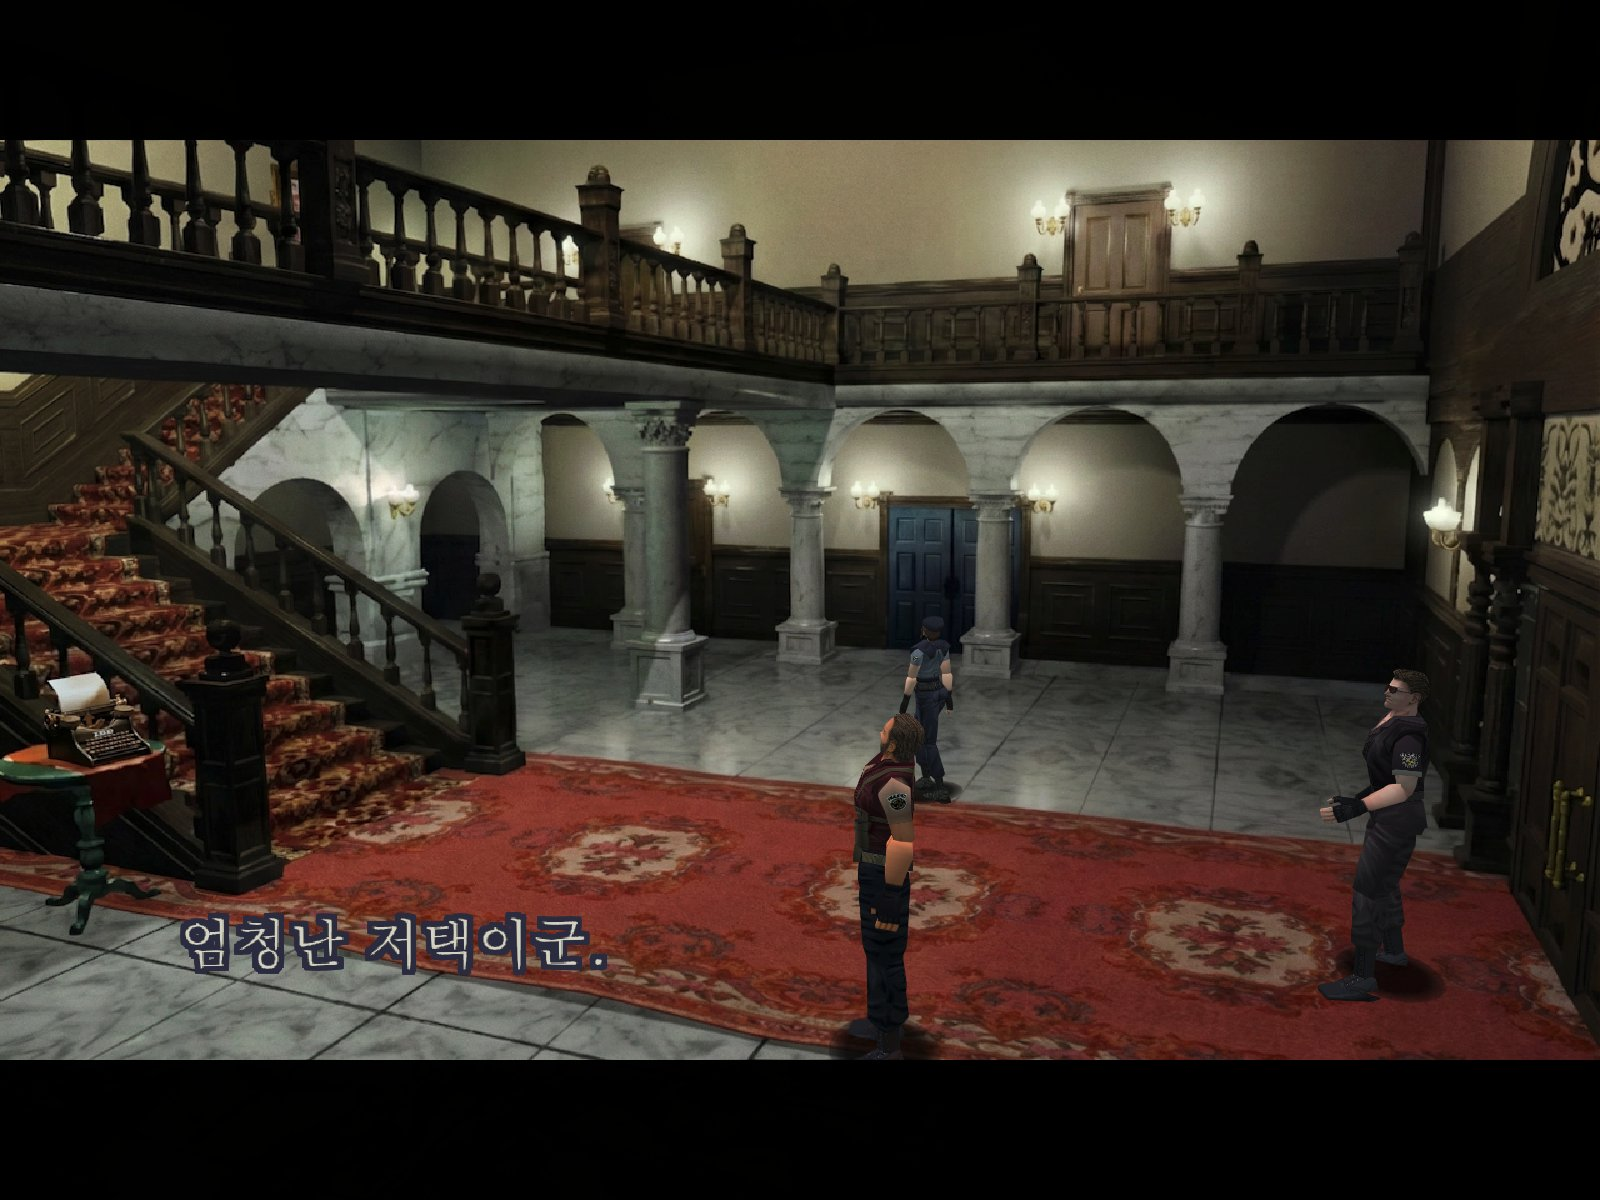
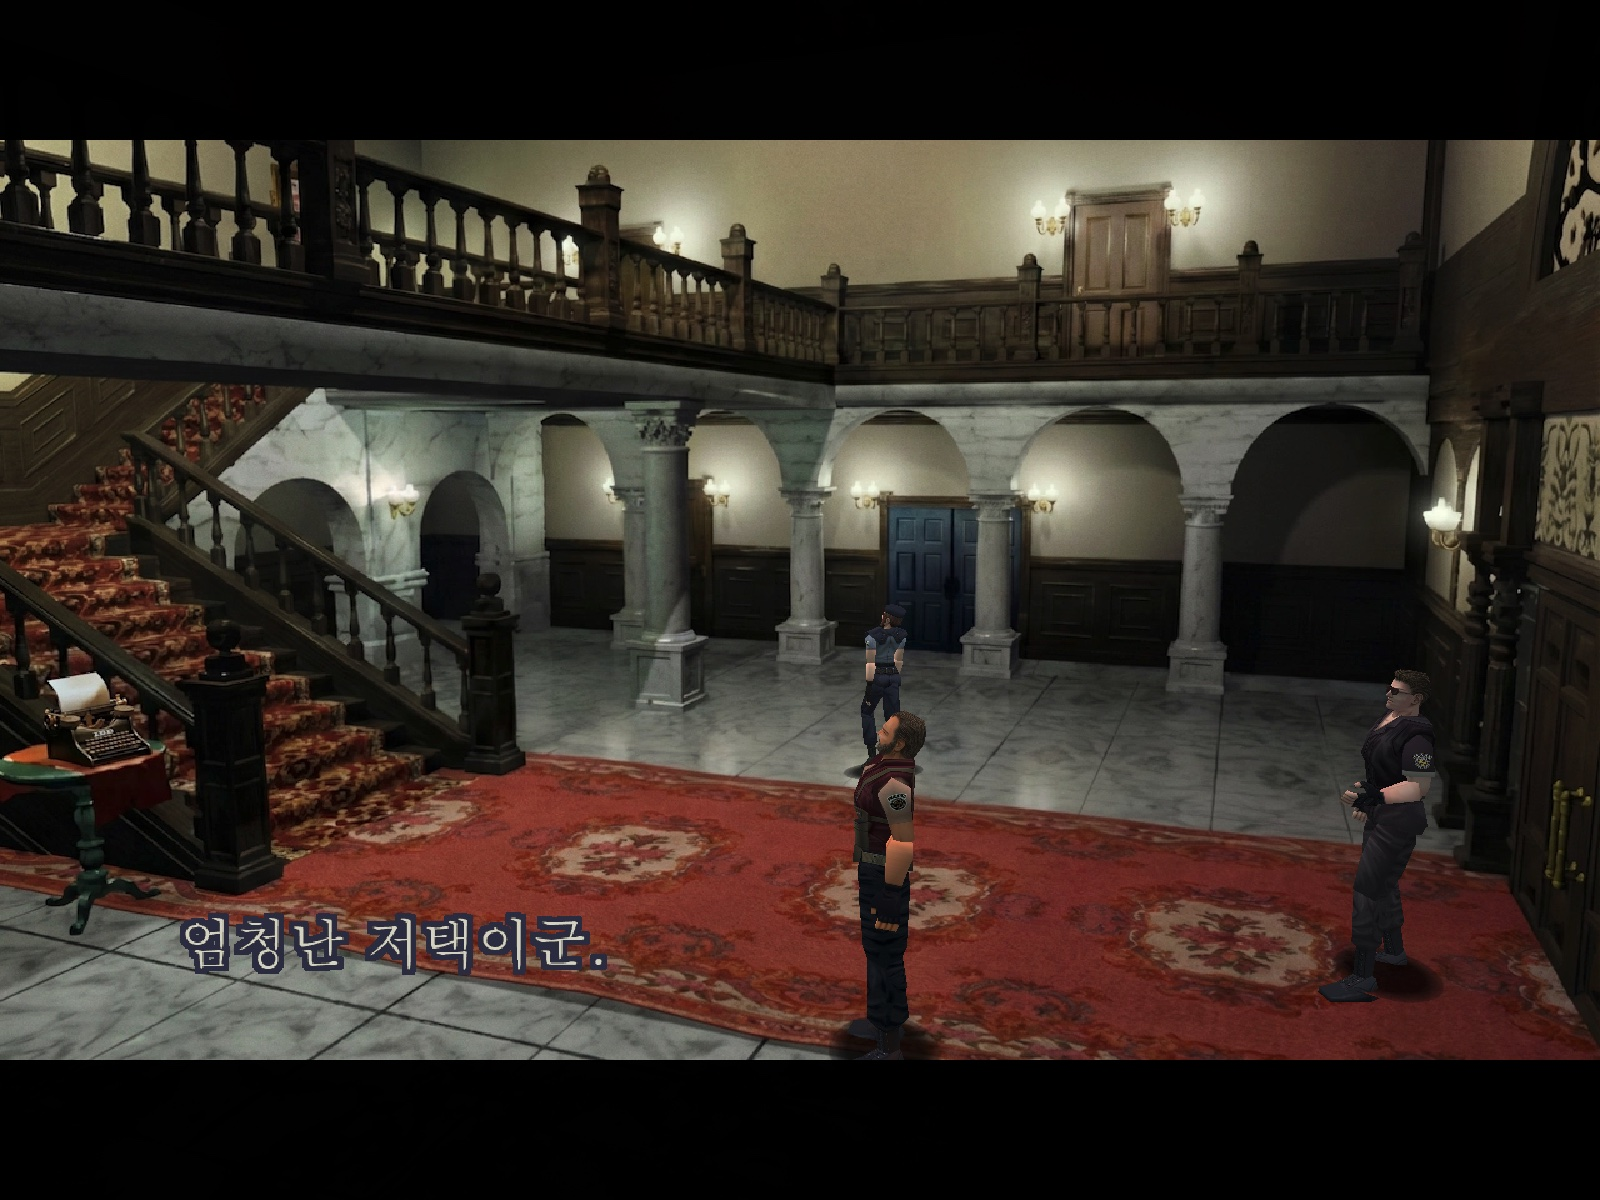
docs: refresh screenshots

Changed region(s): [[0.5312, 0.4933, 0.5938, 0.6783], [0.8125, 0.6167, 0.9062, 0.6783], [0.8438, 0.5858, 0.875, 0.6167]]

diff --git a/README.md b/README.md
@@ -8,14 +8,12 @@
 
 ## 스크린샷
 
-| 대사 | 문서 |
+| | |
 |---|---|
-| ![중앙 홀 대사 "엄청난 저택이군."](docs/screenshots/main-hall.jpg) | ![사육사의 일지](docs/screenshots/keepers-diary-1.jpg) |
-| ![호랑이 석상 조사 메시지](docs/screenshots/tiger-statue.jpg) | ![사육사의 일지 마지막 페이지](docs/screenshots/keepers-diary-2.jpg) |
-
-| 인트로 영상 자막 | |
-|---|---|
-| ![인트로 영상 자막 1](docs/screenshots/intro-movie-1.jpg) | ![인트로 영상 자막 2](docs/screenshots/intro-movie-2.jpg) |
+| ![문서 — 식물 42 보고서](docs/screenshots/plant-42-report.jpg) | ![인트로 영상 자막 "1998년 7월 라쿤 숲 지대"](docs/screenshots/intro-movie.jpg) |
+| ![중앙 홀 대사 "엄청난 저택이군."](docs/screenshots/main-hall.jpg) | ![아이템 화면](docs/screenshots/inventory.jpg) |
+| ![문서 — 사육사의 일지 날짜별 페이지](docs/screenshots/keepers-diary-page.jpg) | ![문서 — 사육사의 일지 표지](docs/screenshots/keepers-diary-cover.jpg) |
+| ![문서 — 사육사의 일지 마지막 페이지](docs/screenshots/keepers-diary-last.jpg) | ![문서 — V-JOLT 보고서](docs/screenshots/v-jolt-report.jpg) |
 
 함께 쓰면 좋은 모드: [상세 지도: 생존자의 메모](https://github.com/eggu/resident-evil-annotated-map). 지도에 방 이름, 잠긴 문과 필요한 열쇠, 아이템, 퍼즐 위치를 보여 줍니다.
 
